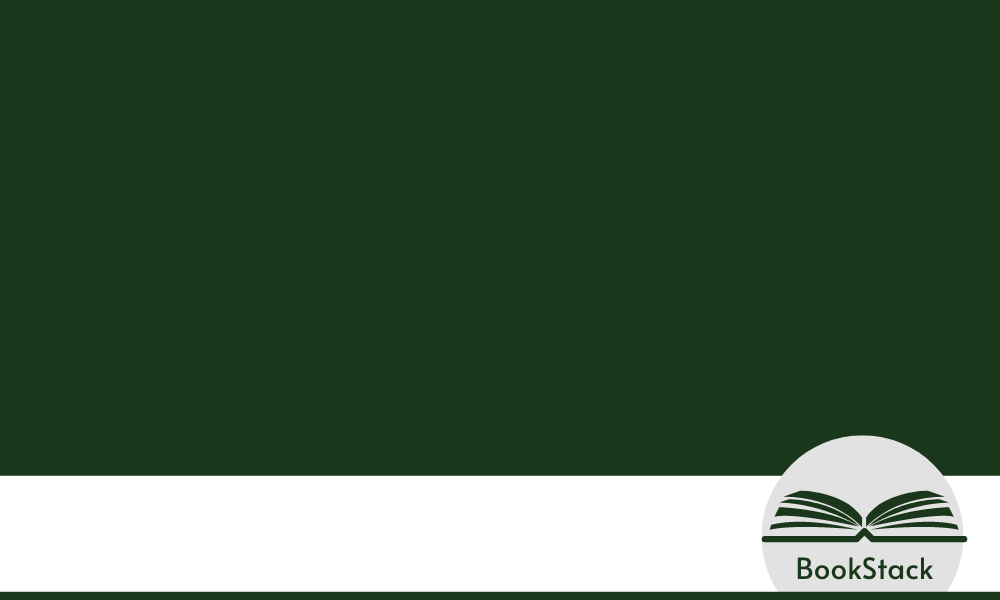
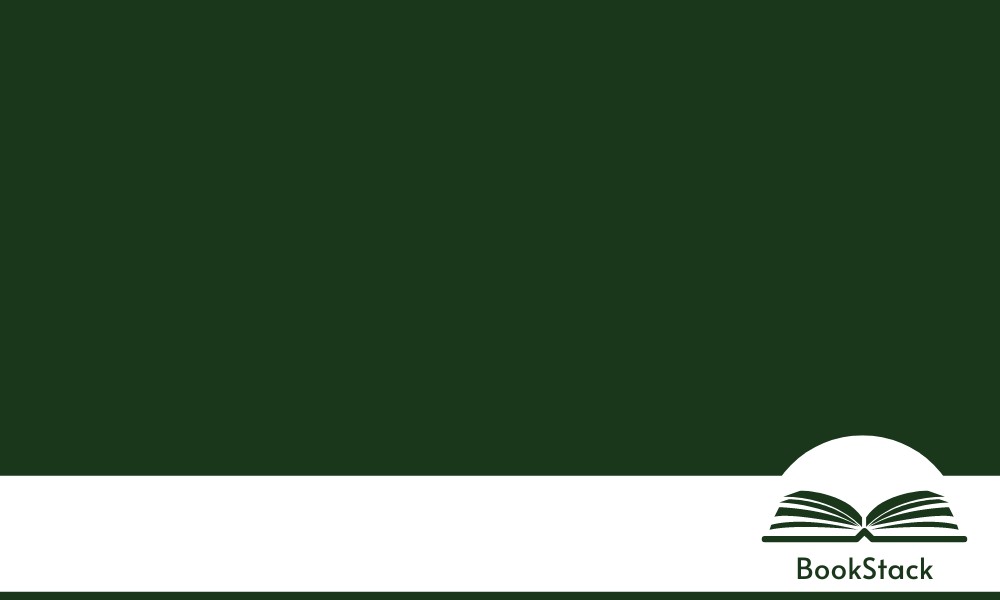
backbutton

Changed region(s): [[0.744, 0.72, 0.961, 0.99]]

diff --git a/addbookspage.py b/addbookspage.py
@@ -80,8 +80,11 @@ subButton.place(relx=0.28, rely = 0.64)
 displayButton = Button(addbooks,text = ' Display ', foreground=myColor, background='white', font=(myFont, 15) )
 displayButton.place(relx=0.375, rely = 0.64)
 
-#havent added any commands, but this button to return to prev page
-backButton = backButton = Button(addbooks,text = '  Back  ', foreground=myColor, background='white', font=(myFont, 15))
-backButton.place(relx=0.475, rely = 0.64)
+backButton = backButton = Button(addbooks,text = 'Back', foreground=myColor, background='white', font=(myFont, 10), borderwidth=0)
+backButton.place(relx=0.01, rely = 0.02)
+
+# #havent added any commands, but this button to return to prev page
+# backButton = backButton = Button(addbooks,text = '  Back  ', foreground=myColor, background='white', font=(myFont, 15))
+# backButton.place(relx=0.475, rely = 0.64)
 
 addbooks.mainloop()

diff --git a/landingpage.py b/landingpage.py
@@ -20,7 +20,7 @@ myFont = font.Font(family='Helvetica')
 backgroundlabel = Label(root, image = background, background="white" )
 backgroundlabel.place(x = 0, y = 0)
 
-logolabel = Label(root, image = logo)
+logolabel = Label(root, image = logo, background='white')
 logolabel.place(relx=0.143, rely = 0.38)
 
 

diff --git a/tempCodeRunnerFile.py b/tempCodeRunnerFile.py
@@ -1,1 +1,3 @@
-white
+#havent added any commands, but this button to return to prev page
+# backButton = backButton = Button(addbooks,text = '  Back  ', foreground=myColor, background='white', font=(myFont, 15))
+# backButton.place(relx=0.475, rely = 0.64)
